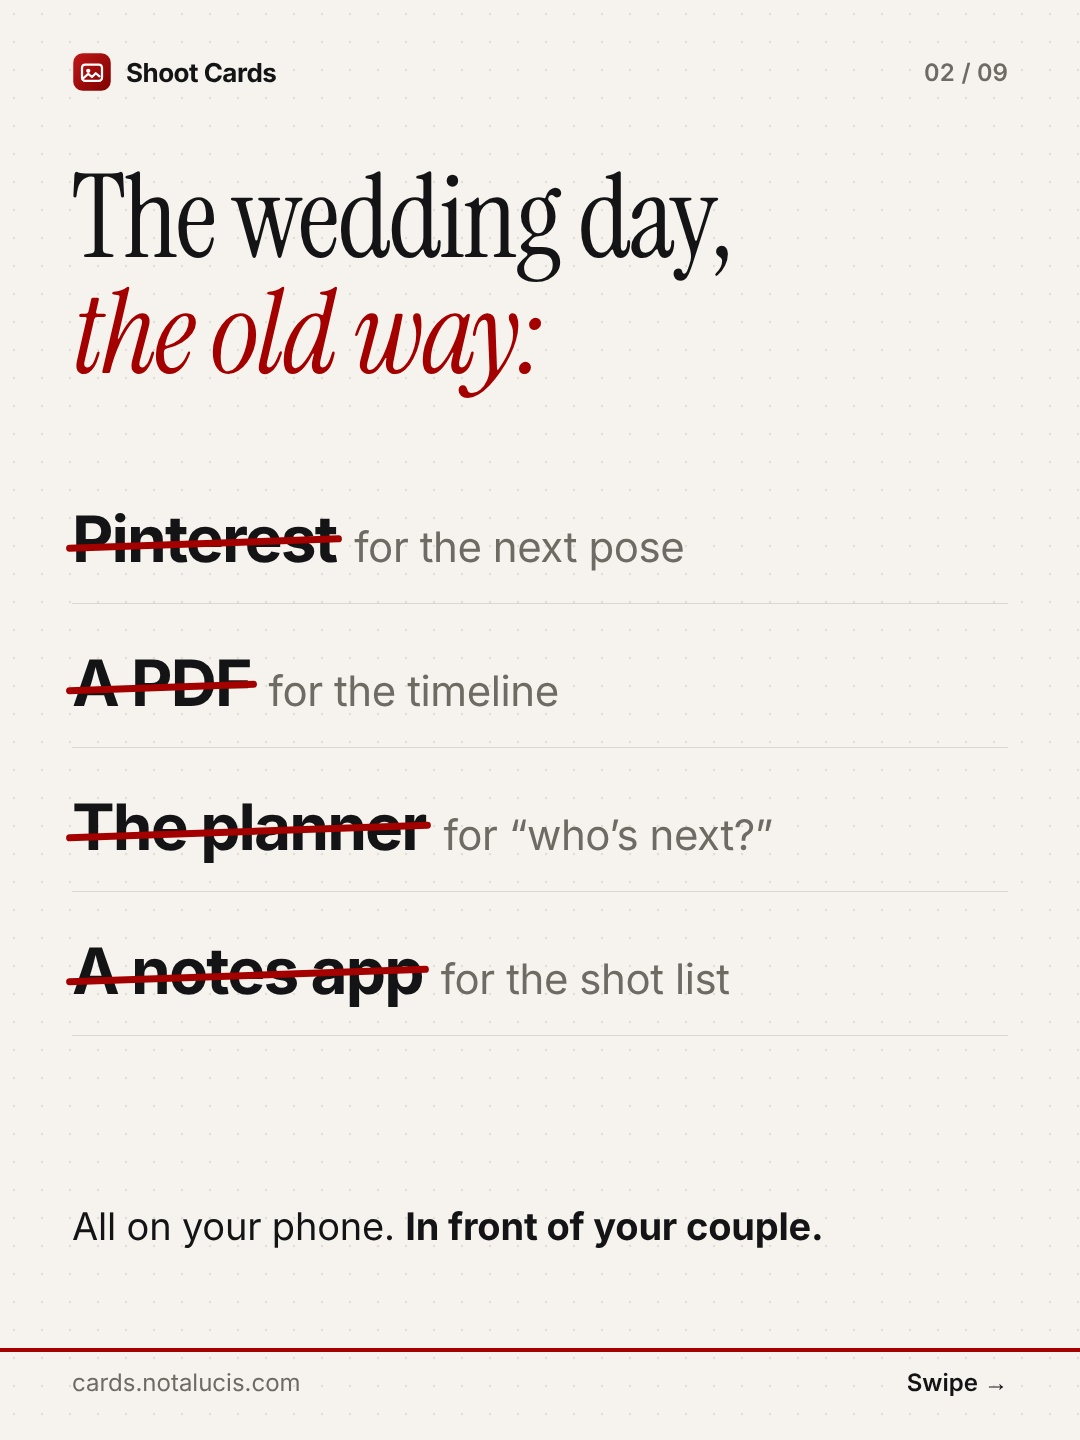
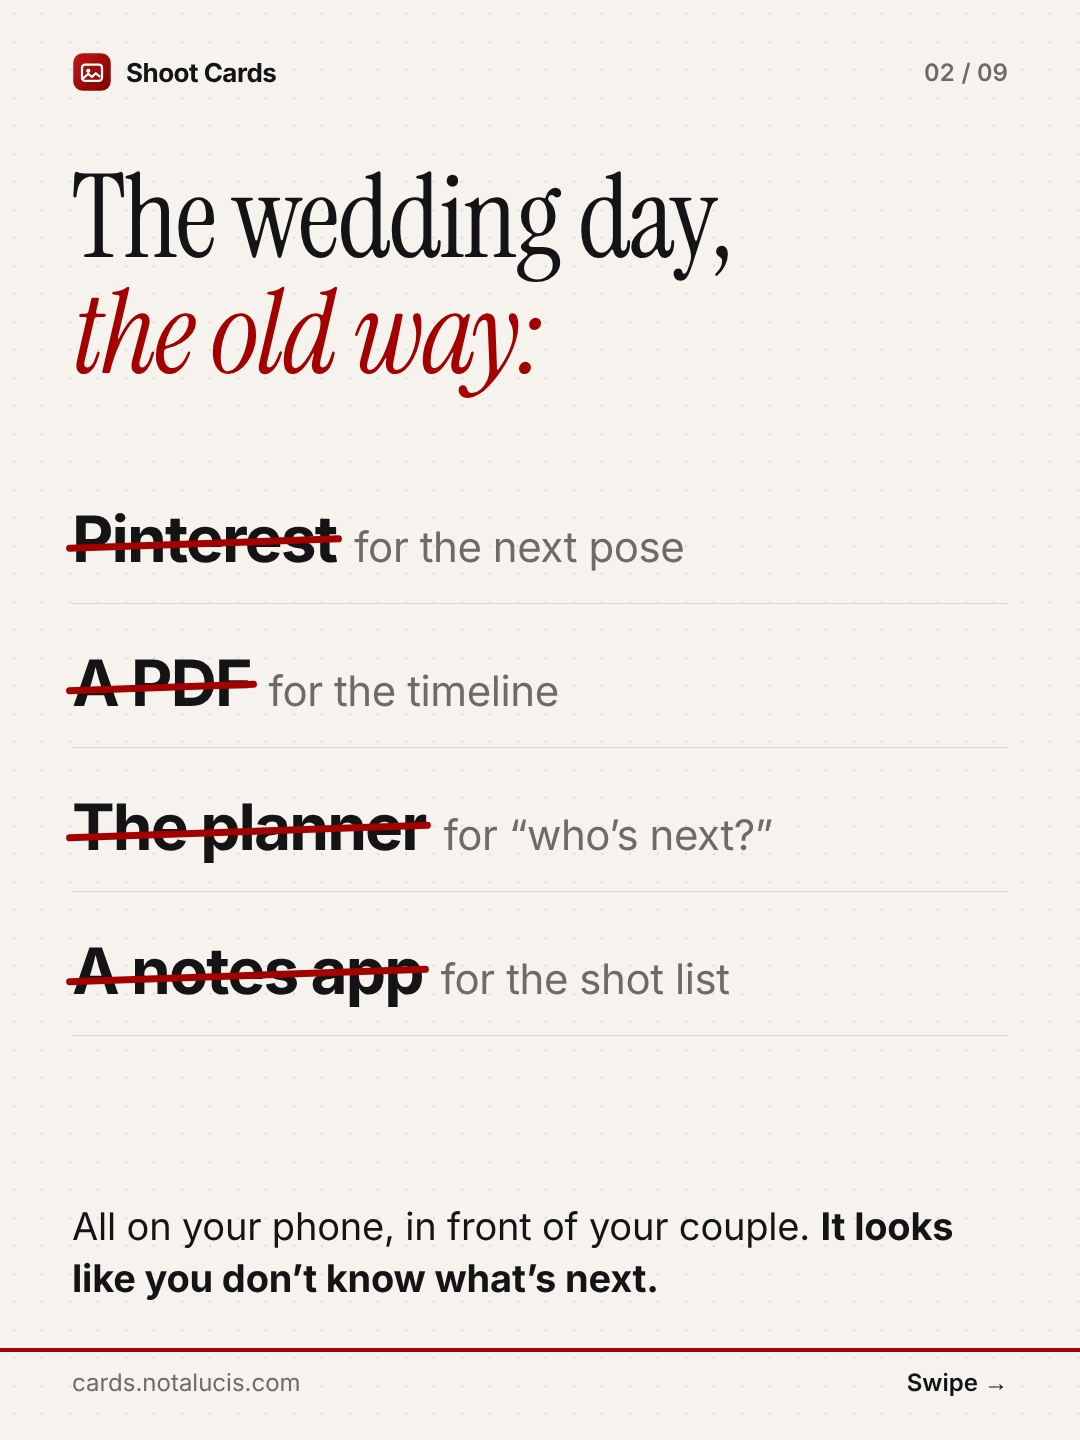
Carousel C: open on wedding photographers and looking professional
Slide 1 now says who it's for and why it matters: "Never look unprepared
in front of a couple again", over a frame from the real wedding take
(the pose card on the camera, the couple waiting). Slides 2 and 3 carry
the same reassurance; the caption leads with it.

Claude-Session: https://claude.ai/code/session_01TJFhN7m6aSDXZ3n1wrSHbs

Changed region(s): [[0.0611, 0.8438, 0.8861, 0.9062]]

diff --git a/video/src/carousel/ConceptC.tsx b/video/src/carousel/ConceptC.tsx
@@ -1,7 +1,7 @@
 import React from "react";
-import { AbsoluteFill, Img, staticFile } from "remotion";
+import { Img, staticFile } from "remotion";
 import { SANS } from "../theme";
-import { Body, CameraStrip, Card, CardAnatomy, Cta, Headline, INK, Label, M, MUTED, PAPER, RED, Slide, Steps } from "./kit";
+import { Body, CameraStrip, Card, CardAnatomy, Cta, Headline, INK, Label, M, MUTED, RED, Slide, Steps } from "./kit";
 
 // Concept C, problem solving for the whole wedding day: the photographer runs the day from a phone (Pinterest,
 // a PDF timeline, the planner, a notes app); Shoot Cards puts poses, timeline, family groups and the shot list on
@@ -17,22 +17,18 @@ const Wide: React.FC<{ src: string; width: number; rotate?: number; style?: Reac
 );
 
 const Hook: React.FC = () => (
-  <Slide
-    n={1} total={N}
-    bg={
-      <AbsoluteFill>
-        {/* the camera photo slid down a fifth, so the headline sits above it on paper */}
-        <Img src={staticFile("photos/DSC08438.jpg")} style={{ width: "100%", height: "100%", objectFit: "cover", transform: "translateY(22%)" }} />
-        <AbsoluteFill style={{ background: `linear-gradient(180deg, ${PAPER} 0%, ${PAPER} 30%, rgba(246,243,238,0) 44%, rgba(246,243,238,0) 84%, ${PAPER} 95%)` }} />
-      </AbsoluteFill>
-    }
-  >
+  <Slide n={1} total={N}>
     <div style={{ position: "absolute", left: M, right: M, top: 150 }}>
-      <Headline size={120}>{"Stop running\nthe wedding day\n*from your phone.*"}</Headline>
+      <Label>For wedding photographers</Label>
+      <Headline size={118} style={{ marginTop: 18 }}>{"Never look *unprepared*\nin front of a\ncouple again."}</Headline>
     </div>
-    <div style={{ position: "absolute", left: M, top: 1220, background: "rgba(20,20,22,0.82)", color: "#fff", borderRadius: 18, padding: "18px 26px", fontFamily: SANS, fontSize: 30, fontWeight: 600, letterSpacing: "-0.01em" }}>
-      Poses · timeline · family groups · shot list. <span style={{ color: "#ff8a7e" }}>On your camera.</span>
+    {/* At a real wedding, over the photographer's shoulder: the pose card on the camera, the couple waiting. */}
+    <div style={{ position: "absolute", left: M, right: M, top: 640, height: 527, borderRadius: 22, overflow: "hidden", boxShadow: "0 30px 60px rgba(40,20,10,0.22)" }}>
+      <Img src={staticFile("carousel/wedding-pov.jpg")} style={{ width: "100%", height: "100%", objectFit: "cover" }} />
     </div>
+    <Body size={34} style={{ position: "absolute", left: M, right: M, top: 1200, color: INK }}>
+      Poses, timeline, family groups, shot list. <b>All on the camera already in your hand.</b>
+    </Body>
   </Slide>
 );
 
@@ -61,7 +57,7 @@ const OldWay: React.FC = () => {
         ))}
       </div>
       <Body size={38} style={{ position: "absolute", left: M, right: M, top: 1200, color: INK }}>
-        All on your phone. <b>In front of your couple.</b>
+        All on your phone, in front of your couple. <b>It looks like you don’t know what’s next.</b>
       </Body>
     </Slide>
   );
@@ -71,12 +67,13 @@ const AllOnCamera: React.FC = () => (
   <Slide n={3} total={N}>
     <div style={{ position: "absolute", left: M, right: M, top: 150 }}>
       <Headline size={112}>{"Now it’s all\n*on your camera screen.*"}</Headline>
+      <Body size={32} style={{ marginTop: 14 }}>Faster, calmer, more professional. Everything within reach of the camera you’re already holding.</Body>
     </div>
-    <Card card="editorial" width={430} rotate={-3} style={{ position: "absolute", left: M, top: 500 }} />
-    <div style={{ position: "absolute", left: 560, top: 450, display: "flex", flexDirection: "column", gap: 24 }}>
-      <Wide src="cards/timeline.png" width={410} rotate={2} />
-      <Wide src="cards/groups.png" width={410} rotate={-1.5} />
-      <Wide src="cards/shotlist.png" width={410} rotate={1.5} />
+    <Card card="editorial" width={430} rotate={-3} style={{ position: "absolute", left: M, top: 580 }} />
+    <div style={{ position: "absolute", left: 580, top: 520, display: "flex", flexDirection: "column", gap: 20 }}>
+      <Wide src="cards/timeline.png" width={370} rotate={2} />
+      <Wide src="cards/groups.png" width={370} rotate={-1.5} />
+      <Wide src="cards/shotlist.png" width={370} rotate={1.5} />
     </div>
   </Slide>
 );

diff --git a/video/storyboards/carousel.md b/video/storyboards/carousel.md
@@ -30,10 +30,10 @@ What the research says works, and how it's used:
 6. The fan: every pose for the whole day, plus Kim & Ivan.
 7. The close (as A10).
 
-**C: "Stop running the wedding day from your phone"** (9 slides; the one to post first). Problem solving for the whole day, not just posing.
-1. The camera with the card (DSC08438) under the headline. "Poses · timeline · family groups · shot list. On your camera."
-2. "The wedding day, the old way:" Pinterest, a PDF, the planner, a notes app, each struck through. Then "All on your phone. In front of your couple."
-3. "Now it's all on your camera screen": the pose card next to the timeline, groups and shot-list cards.
+**C: "Never look unprepared in front of a couple again"** (9 slides; the one to post first). Problem solving for the whole day, not just posing, and the reassurance of looking professional.
+1. "For wedding photographers", then the headline. Under it, a frame from the real wedding take: over the photographer's shoulder, the pose card on the camera, the couple waiting. "Poses, timeline, family groups, shot list. All on the camera already in your hand."
+2. "The wedding day, the old way:" Pinterest, a PDF, the planner, a notes app, each struck through. Then "All on your phone, in front of your couple. It looks like you don't know what's next."
+3. "Now it's all on your camera screen. Faster, calmer, more professional.": the pose card next to the timeline, groups and shot-list cards.
 4. Poses, with the words to say (the card's four parts).
 5. The timeline, one swipe away.
 6. Family groups, in order.

diff --git a/video/carousel/captions.md b/video/carousel/captions.md
@@ -7,13 +7,13 @@ For "Comment POSE" to work, set up an automatic DM (ManyChat or Meta's own autom
 
 ---
 
-## Concept C: "Stop running the wedding day from your phone" (post this first)
+## Concept C: "Never look unprepared in front of a couple again" (post this first)
 
-Stop running the wedding day from your phone. 📵
+Wedding photographers: never look unprepared in front of a couple again. 📷
 
-Pinterest for the next pose. The timeline in a PDF. Asking the planner who’s next for the family photos. The shot list in your notes app. All on your phone, in front of your couple.
+Pinterest for the next pose. The timeline in a PDF. Asking the planner who’s next for the family photos. The shot list in your notes app. All on your phone, in front of your couple, and it looks like you don’t know what’s next.
 
-Shoot Cards puts all of it on your camera screen: poses with the exact words to say, the day’s timeline, the family groups in order and the shot list. Save them to your SD card and swipe in playback. Sony, Canon and Nikon, no account.
+Shoot Cards puts all of it on the camera that’s already in your hand: poses with the exact words to say, the day’s timeline, the family groups in order and the shot list. Save them to your SD card and swipe in playback. Faster, calmer, more professional. Sony, Canon and Nikon, no account.
 
 Made by wedding photographers Kim & Ivan (In Principio). Your first card is free: comment POSE and we’ll DM you the link, or tap the link in bio.
 

diff --git a/video/README.md b/video/README.md
@@ -44,7 +44,7 @@ This folder is not part of the website: `.vercelignore` keeps it out of the depl
 
 ### Instagram carousel
 
-Three carousels (C: "Stop running the wedding day from your phone", the whole day, 9 slides, to post first; A: "5 poses that work on every couple", value first, 10 slides; B: "Your mind goes blank", direct sale, 7 slides), each in 3:4 for the feed and 4:5 for ads, rendered as stills from `src/carousel/`: `node scripts/carousel.mjs` → `renders/carousel/`. Storyboard and research notes in `storyboards/carousel.md`, post captions in `carousel/captions.md`.
+Three carousels (C: "Never look unprepared in front of a couple again", the whole day, 9 slides, to post first; A: "5 poses that work on every couple", value first, 10 slides; B: "Your mind goes blank", direct sale, 7 slides), each in 3:4 for the feed and 4:5 for ads, rendered as stills from `src/carousel/`: `node scripts/carousel.mjs` → `renders/carousel/`. Storyboard and research notes in `storyboards/carousel.md`, post captions in `carousel/captions.md`.
 
 ### Sound design (v5)
 
